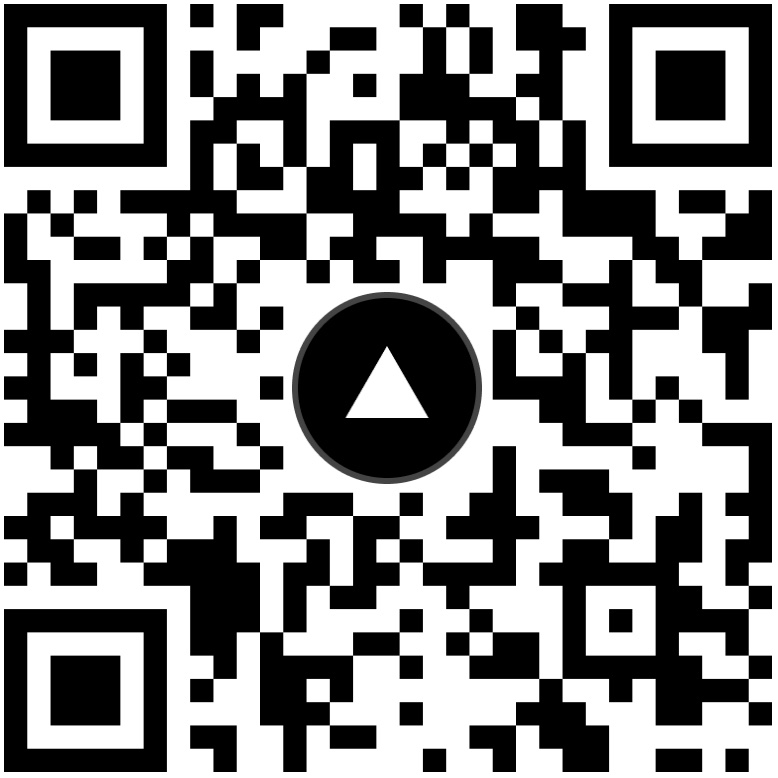
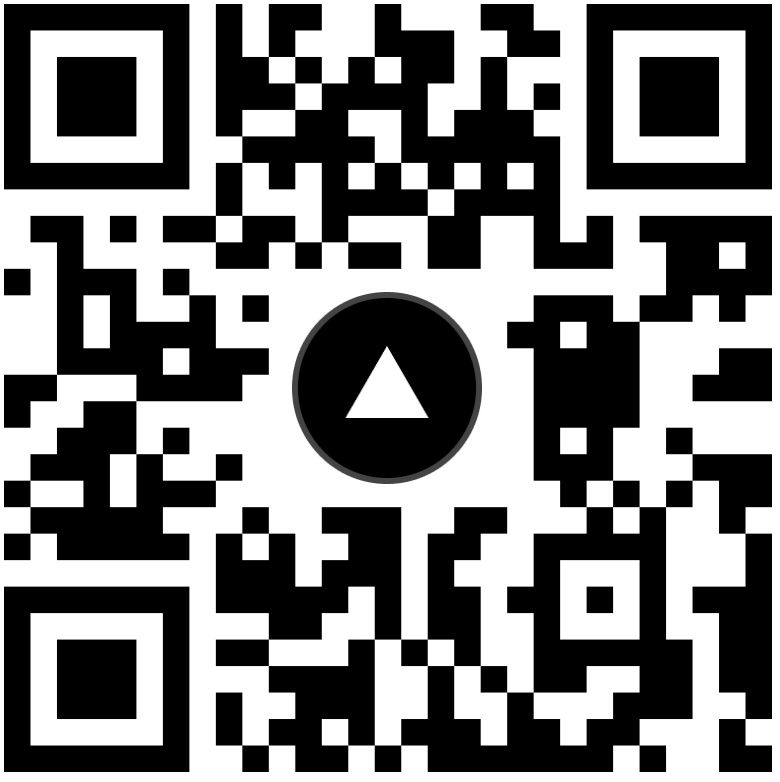
Updates QR code.

diff --git a/app/comments/page.tsx b/app/comments/page.tsx
@@ -4,7 +4,7 @@ export default function Page() {
   return (
     <div className="flex items-center justify-center">
       <div className="text-center text-3xl font-bold text-white">
-        <p className="m-auto mb-10">vercel.fyi/nextjs-conf-demo-comments</p>
+        <p className="m-auto mb-10">vercel.fyi/conf-comments</p>
         <p className="m-auto mb-10">
           Or scan this QR code to leave comments 👇
         </p>
